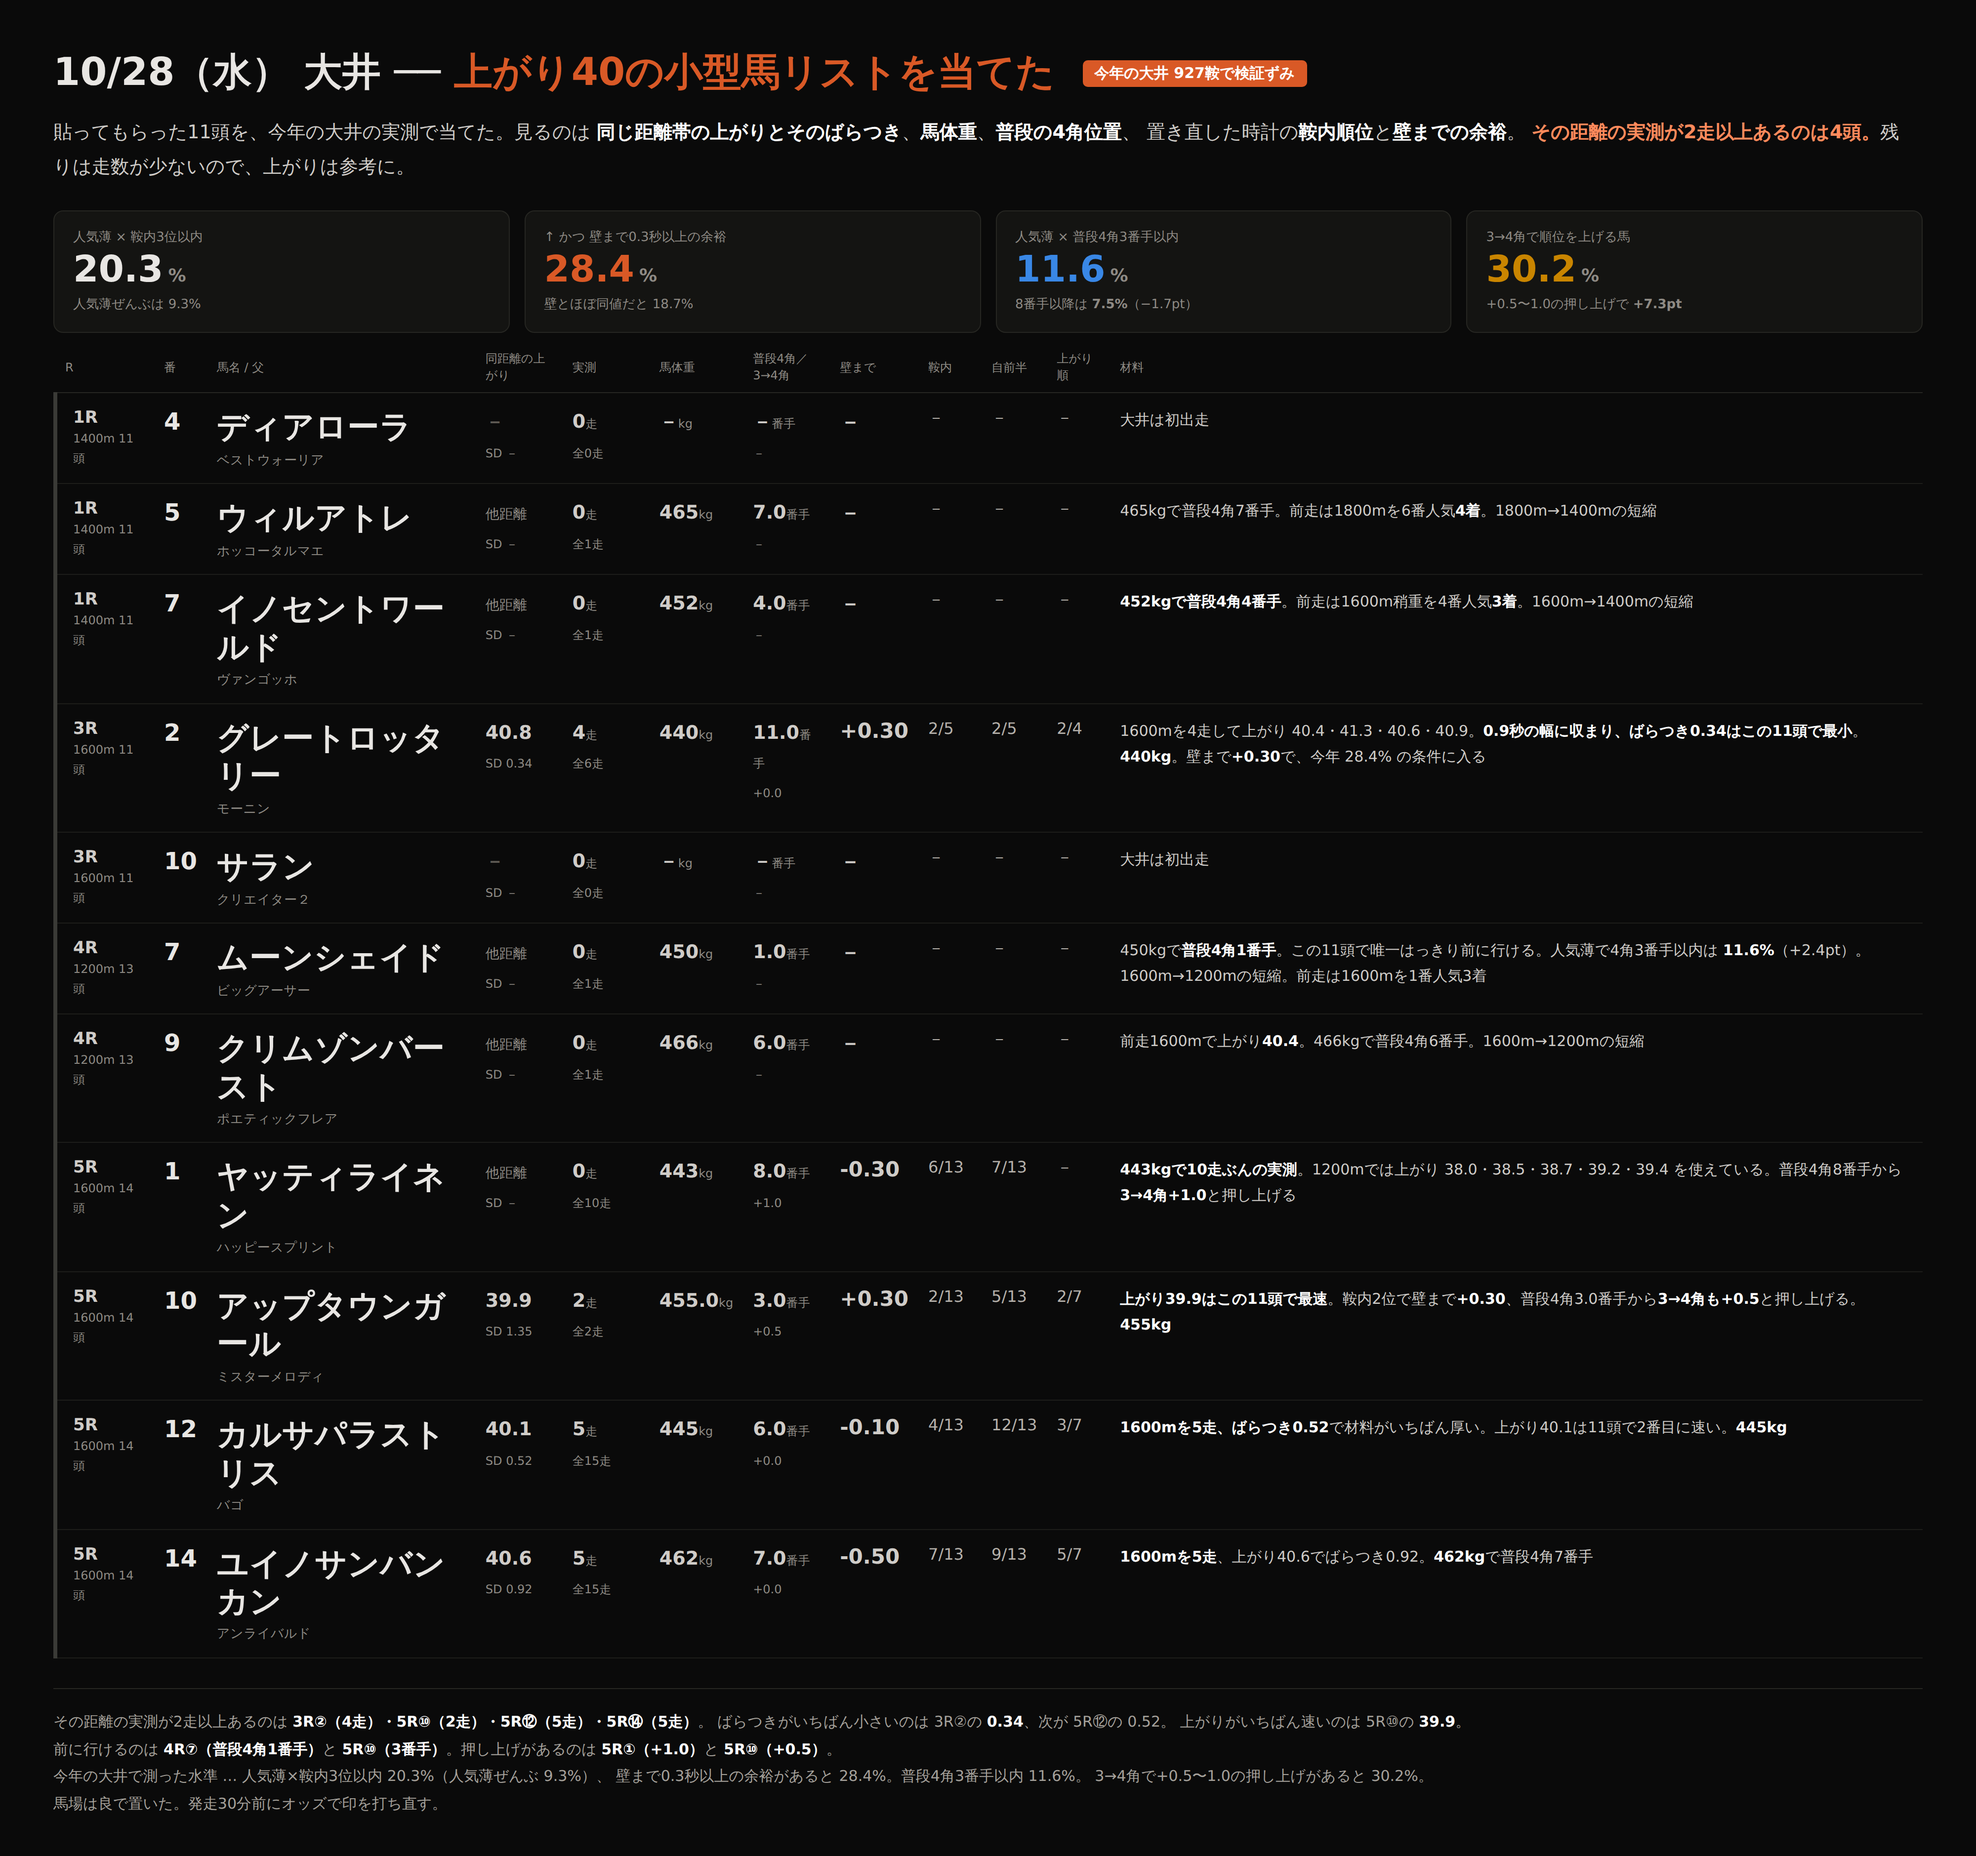
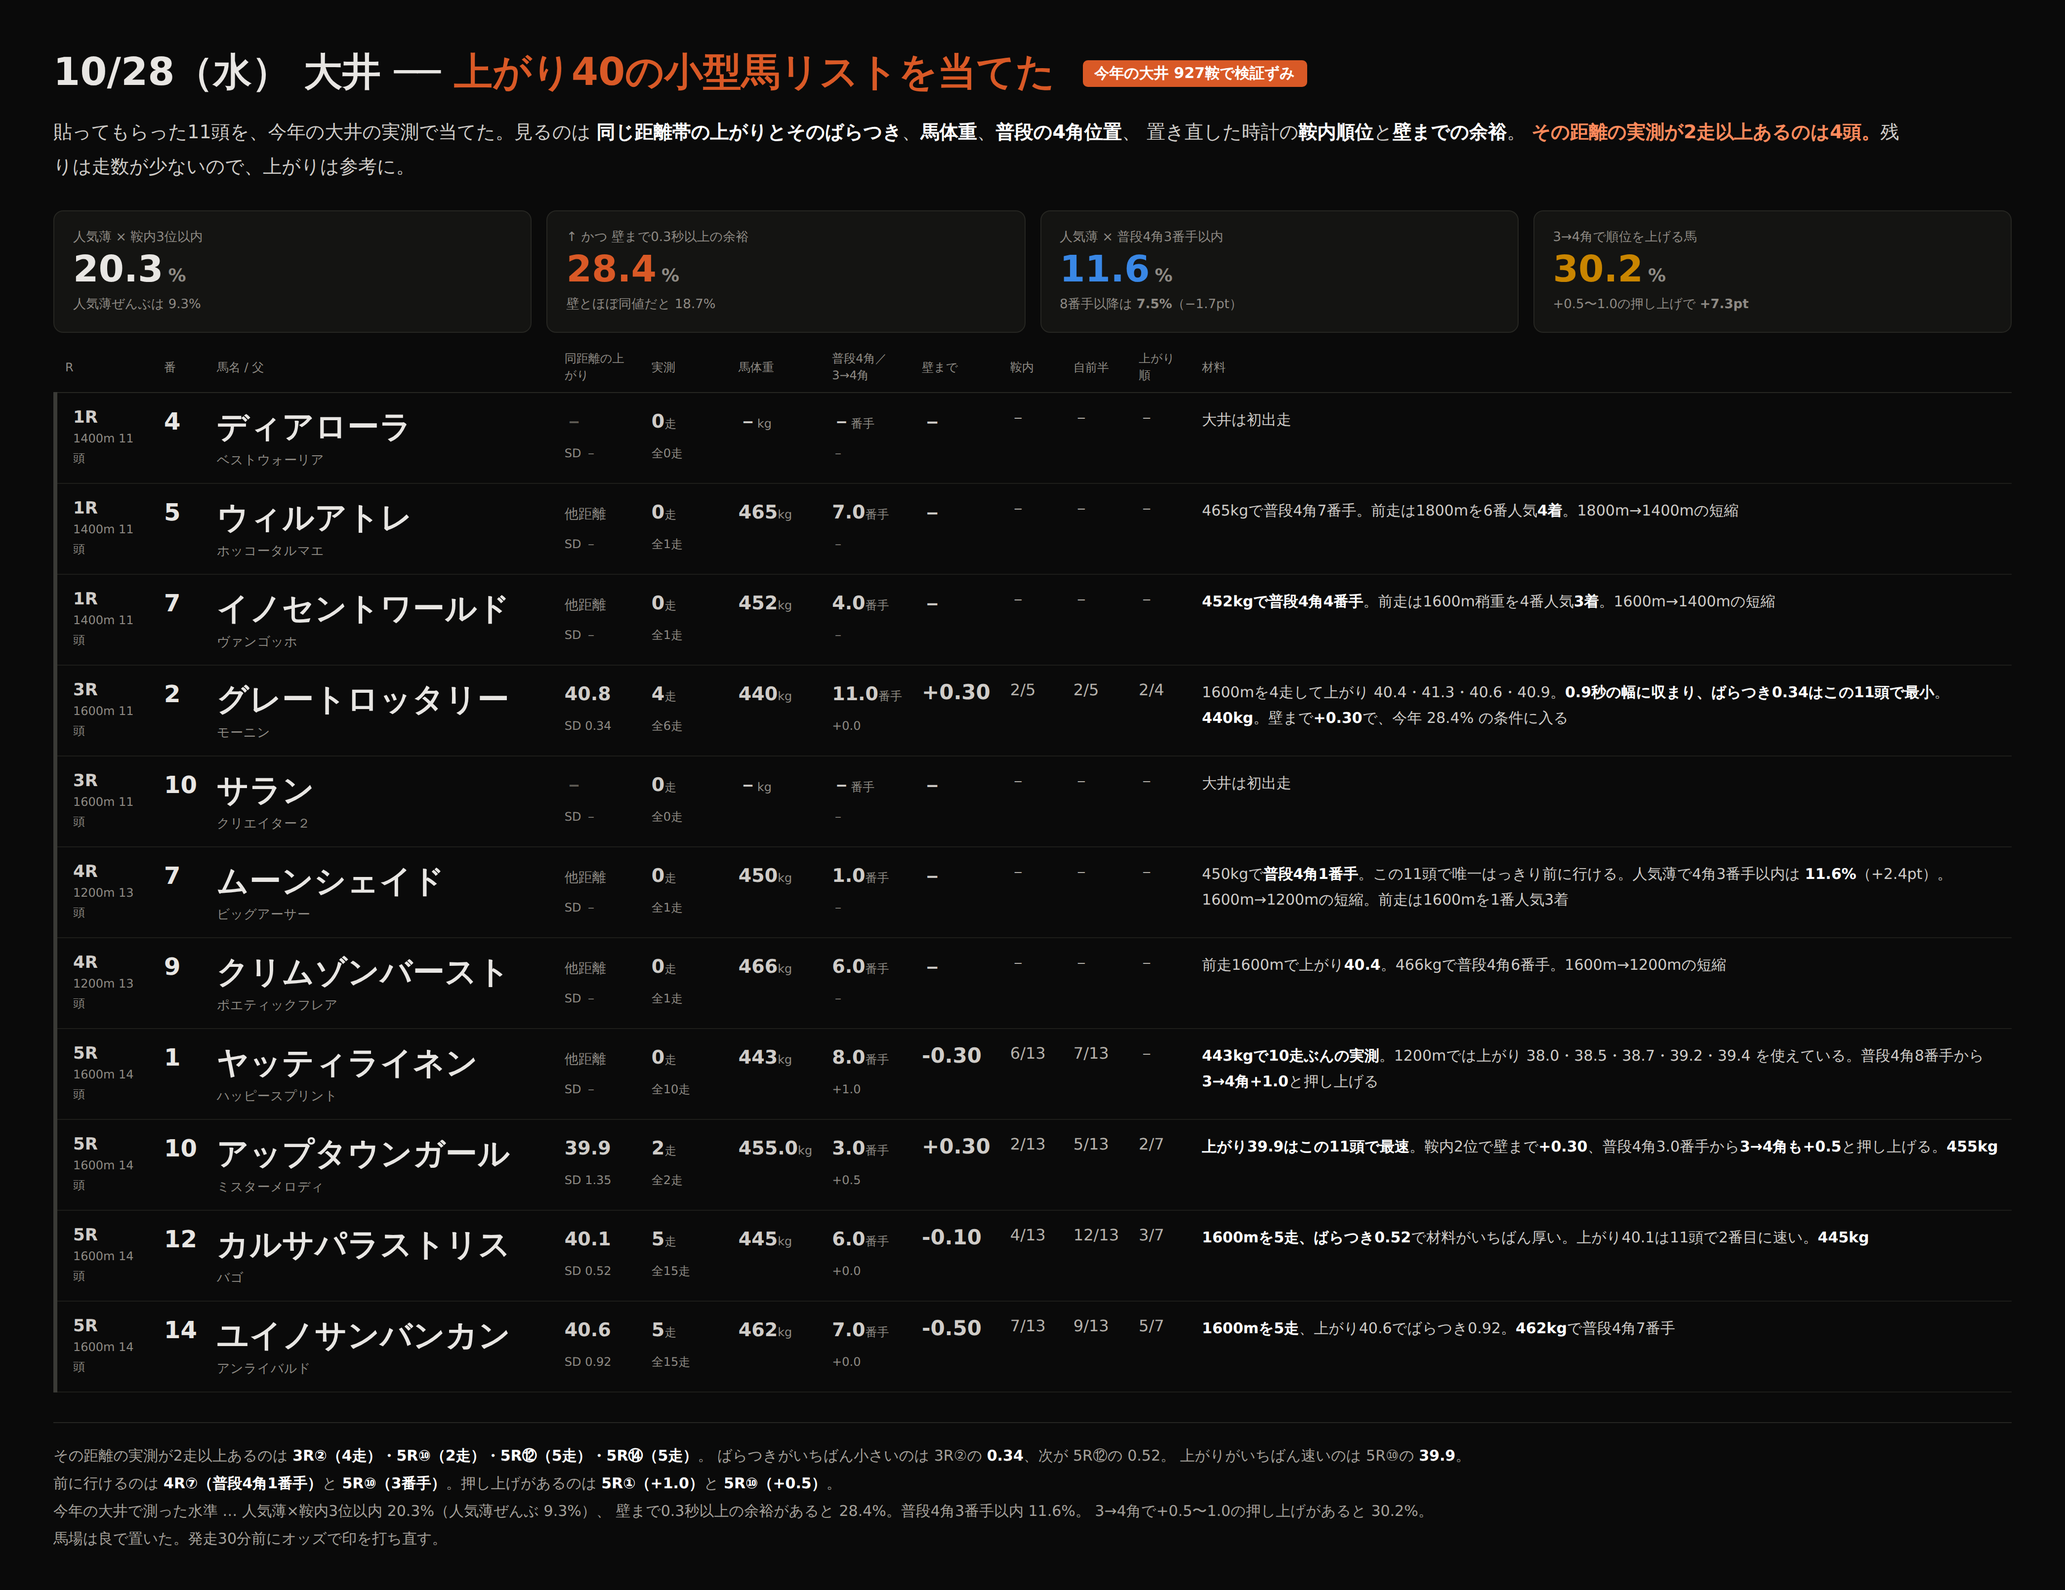
リストのカード：馬名を1行に収める
馬名の欄を352pxに広げて折り返さないようにした。数字の欄も
「番手」が折り返さないようにした。

Claude-Session: https://claude.ai/code/session_01RoHscZkr96FNaxQWvUqgEw

diff --git a/notes/live/2026-10-28/list.html b/notes/live/2026-10-28/list.html
@@ -2,7 +2,7 @@
 <style>
 *{box-sizing:border-box;margin:0;padding:0}
 body{background:#0a0a0a;color:#e8e6e3;font-family:"Hiragino Sans","Noto Sans JP",system-ui,sans-serif;
- padding:46px 54px 38px;width:2000px;-webkit-font-smoothing:antialiased}
+ padding:46px 54px 38px;width:2090px;-webkit-font-smoothing:antialiased}
 h1{font-size:39px;font-weight:800} h1 .ac{color:#d95926}
 .tag{display:inline-block;background:#d95926;color:#fff;font-size:15px;font-weight:700;
  padding:4px 12px;border-radius:5px;margin-left:14px;vertical-align:7px}
@@ -22,10 +22,11 @@ td{padding:15px 10px;border-bottom:1px solid #1d1d1a;font-size:16px;vertical-ali
  border-left:4px solid #3a3a36;padding-left:16px}
 .dm{font-size:12px;color:#8e8a84;font-weight:500}
 .u{width:48px;font-weight:800;font-size:24px;color:#e8e6e3}
-.nm{width:272px;font-weight:800;font-size:32px;line-height:1.2;letter-spacing:.01em}
+.nm{width:352px;font-weight:800;font-size:32px;line-height:1.2;
+ letter-spacing:.01em;white-space:nowrap}
 .si{display:block;font-size:13px;font-weight:500;color:#8e8a84;margin-top:7px}
 .sm{width:88px;color:#cfccc8;font-variant-numeric:tabular-nums;line-height:1.55;
- font-size:19px;font-weight:700}
+ font-size:19px;font-weight:700;white-space:nowrap}
 .sm .un{font-weight:500}
 .dim{color:#5e5a54}
 .un{font-size:12px;color:#8e8a84}

diff --git a/scripts/ana/ooi_list_card.py b/scripts/ana/ooi_list_card.py
@@ -71,7 +71,7 @@ HTML = f'''<!doctype html><html lang=ja><head><meta charset=utf-8>
 <style>
 *{{box-sizing:border-box;margin:0;padding:0}}
 body{{background:#0a0a0a;color:#e8e6e3;font-family:"Hiragino Sans","Noto Sans JP",system-ui,sans-serif;
- padding:46px 54px 38px;width:2000px;-webkit-font-smoothing:antialiased}}
+ padding:46px 54px 38px;width:2090px;-webkit-font-smoothing:antialiased}}
 h1{{font-size:39px;font-weight:800}} h1 .ac{{color:#d95926}}
 .tag{{display:inline-block;background:#d95926;color:#fff;font-size:15px;font-weight:700;
  padding:4px 12px;border-radius:5px;margin-left:14px;vertical-align:7px}}
@@ -91,10 +91,11 @@ td{{padding:15px 10px;border-bottom:1px solid #1d1d1a;font-size:16px;vertical-al
  border-left:4px solid #3a3a36;padding-left:16px}}
 .dm{{font-size:12px;color:#8e8a84;font-weight:500}}
 .u{{width:48px;font-weight:800;font-size:24px;color:#e8e6e3}}
-.nm{{width:272px;font-weight:800;font-size:32px;line-height:1.2;letter-spacing:.01em}}
+.nm{{width:352px;font-weight:800;font-size:32px;line-height:1.2;
+ letter-spacing:.01em;white-space:nowrap}}
 .si{{display:block;font-size:13px;font-weight:500;color:#8e8a84;margin-top:7px}}
 .sm{{width:88px;color:#cfccc8;font-variant-numeric:tabular-nums;line-height:1.55;
- font-size:19px;font-weight:700}}
+ font-size:19px;font-weight:700;white-space:nowrap}}
 .sm .un{{font-weight:500}}
 .dim{{color:#5e5a54}}
 .un{{font-size:12px;color:#8e8a84}}
